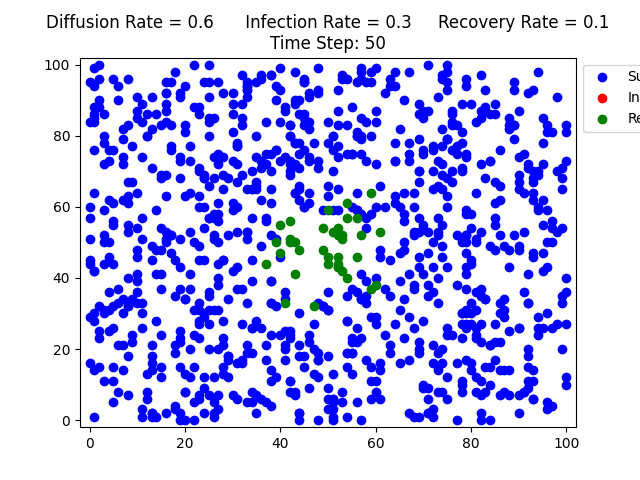
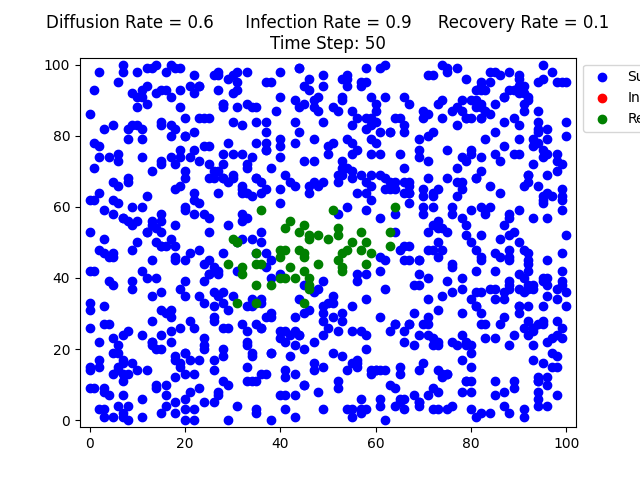
Done

diff --git a/HW1/HW1.py b/HW1/HW1.py
@@ -174,7 +174,7 @@ def task1_1():
         time_step += 1
 
 def task1_2():
-    SIR = DiseaseSpreading(time_steps=1000, nr_agents=10, grid_length=10, diffusion_rate=0.8, infection_rate=0.6, recovery_rate=0.01)
+    SIR = DiseaseSpreading(time_steps=500, nr_agents=100, grid_length=10, diffusion_rate=0.6, infection_rate=0.1, recovery_rate=0.01)
     time_step = 0
     nr_sus = np.zeros((SIR.time_steps, 1))
     nr_inf = np.zeros((SIR.time_steps, 1))
@@ -190,6 +190,12 @@ def task1_2():
         nr_rec[time_step] = sum(SIR.recovered)
         time[time_step] = time_step
         time_step += 1
+        if time_step == 50:
+            plt.savefig('task1_2_popAt50')
+        if time_step == 100:
+            plt.savefig('task1_2_popAt100')
+        if time_step == 500:
+            plt.savefig('task1_2_popAt500')
     plt.figure()
     plt.plot(time, nr_sus, color='blue', label='Susceptible Agents')
     plt.plot(time, nr_inf, color='red', label='Infected Agents')
@@ -260,7 +266,7 @@ def task2_1():
     plt.show()
 
 def task2_2():
-    SIR = DiseaseSpreading(time_steps=500, nr_agents=1000, grid_length=100, diffusion_rate=0.6, infection_rate=1, recovery_rate=0.1)
+    SIR = DiseaseSpreading(time_steps=100, nr_agents=1000, grid_length=100, diffusion_rate=0.6, infection_rate=0.9, recovery_rate=0.1)
     time_step = 0
     nr_sus = np.zeros((SIR.time_steps, 1))
     nr_inf = np.zeros((SIR.time_steps, 1))
@@ -291,8 +297,8 @@ def task2_2():
     plt.title("Diffusion Rate = " + str(SIR.d) + "      Infection Rate = " + str(SIR.beta) + "     Recovery Rate = " + str(SIR.gamma))
     plt.show()
 
-def task3_1():
-    
+#def task3_1():
+
 
 #task1_1()
 #task1_2()
@@ -301,4 +307,4 @@ def task3_1():
 #task2_1()
 #task2_2()
 
-task3_1()
+#task3_1()
